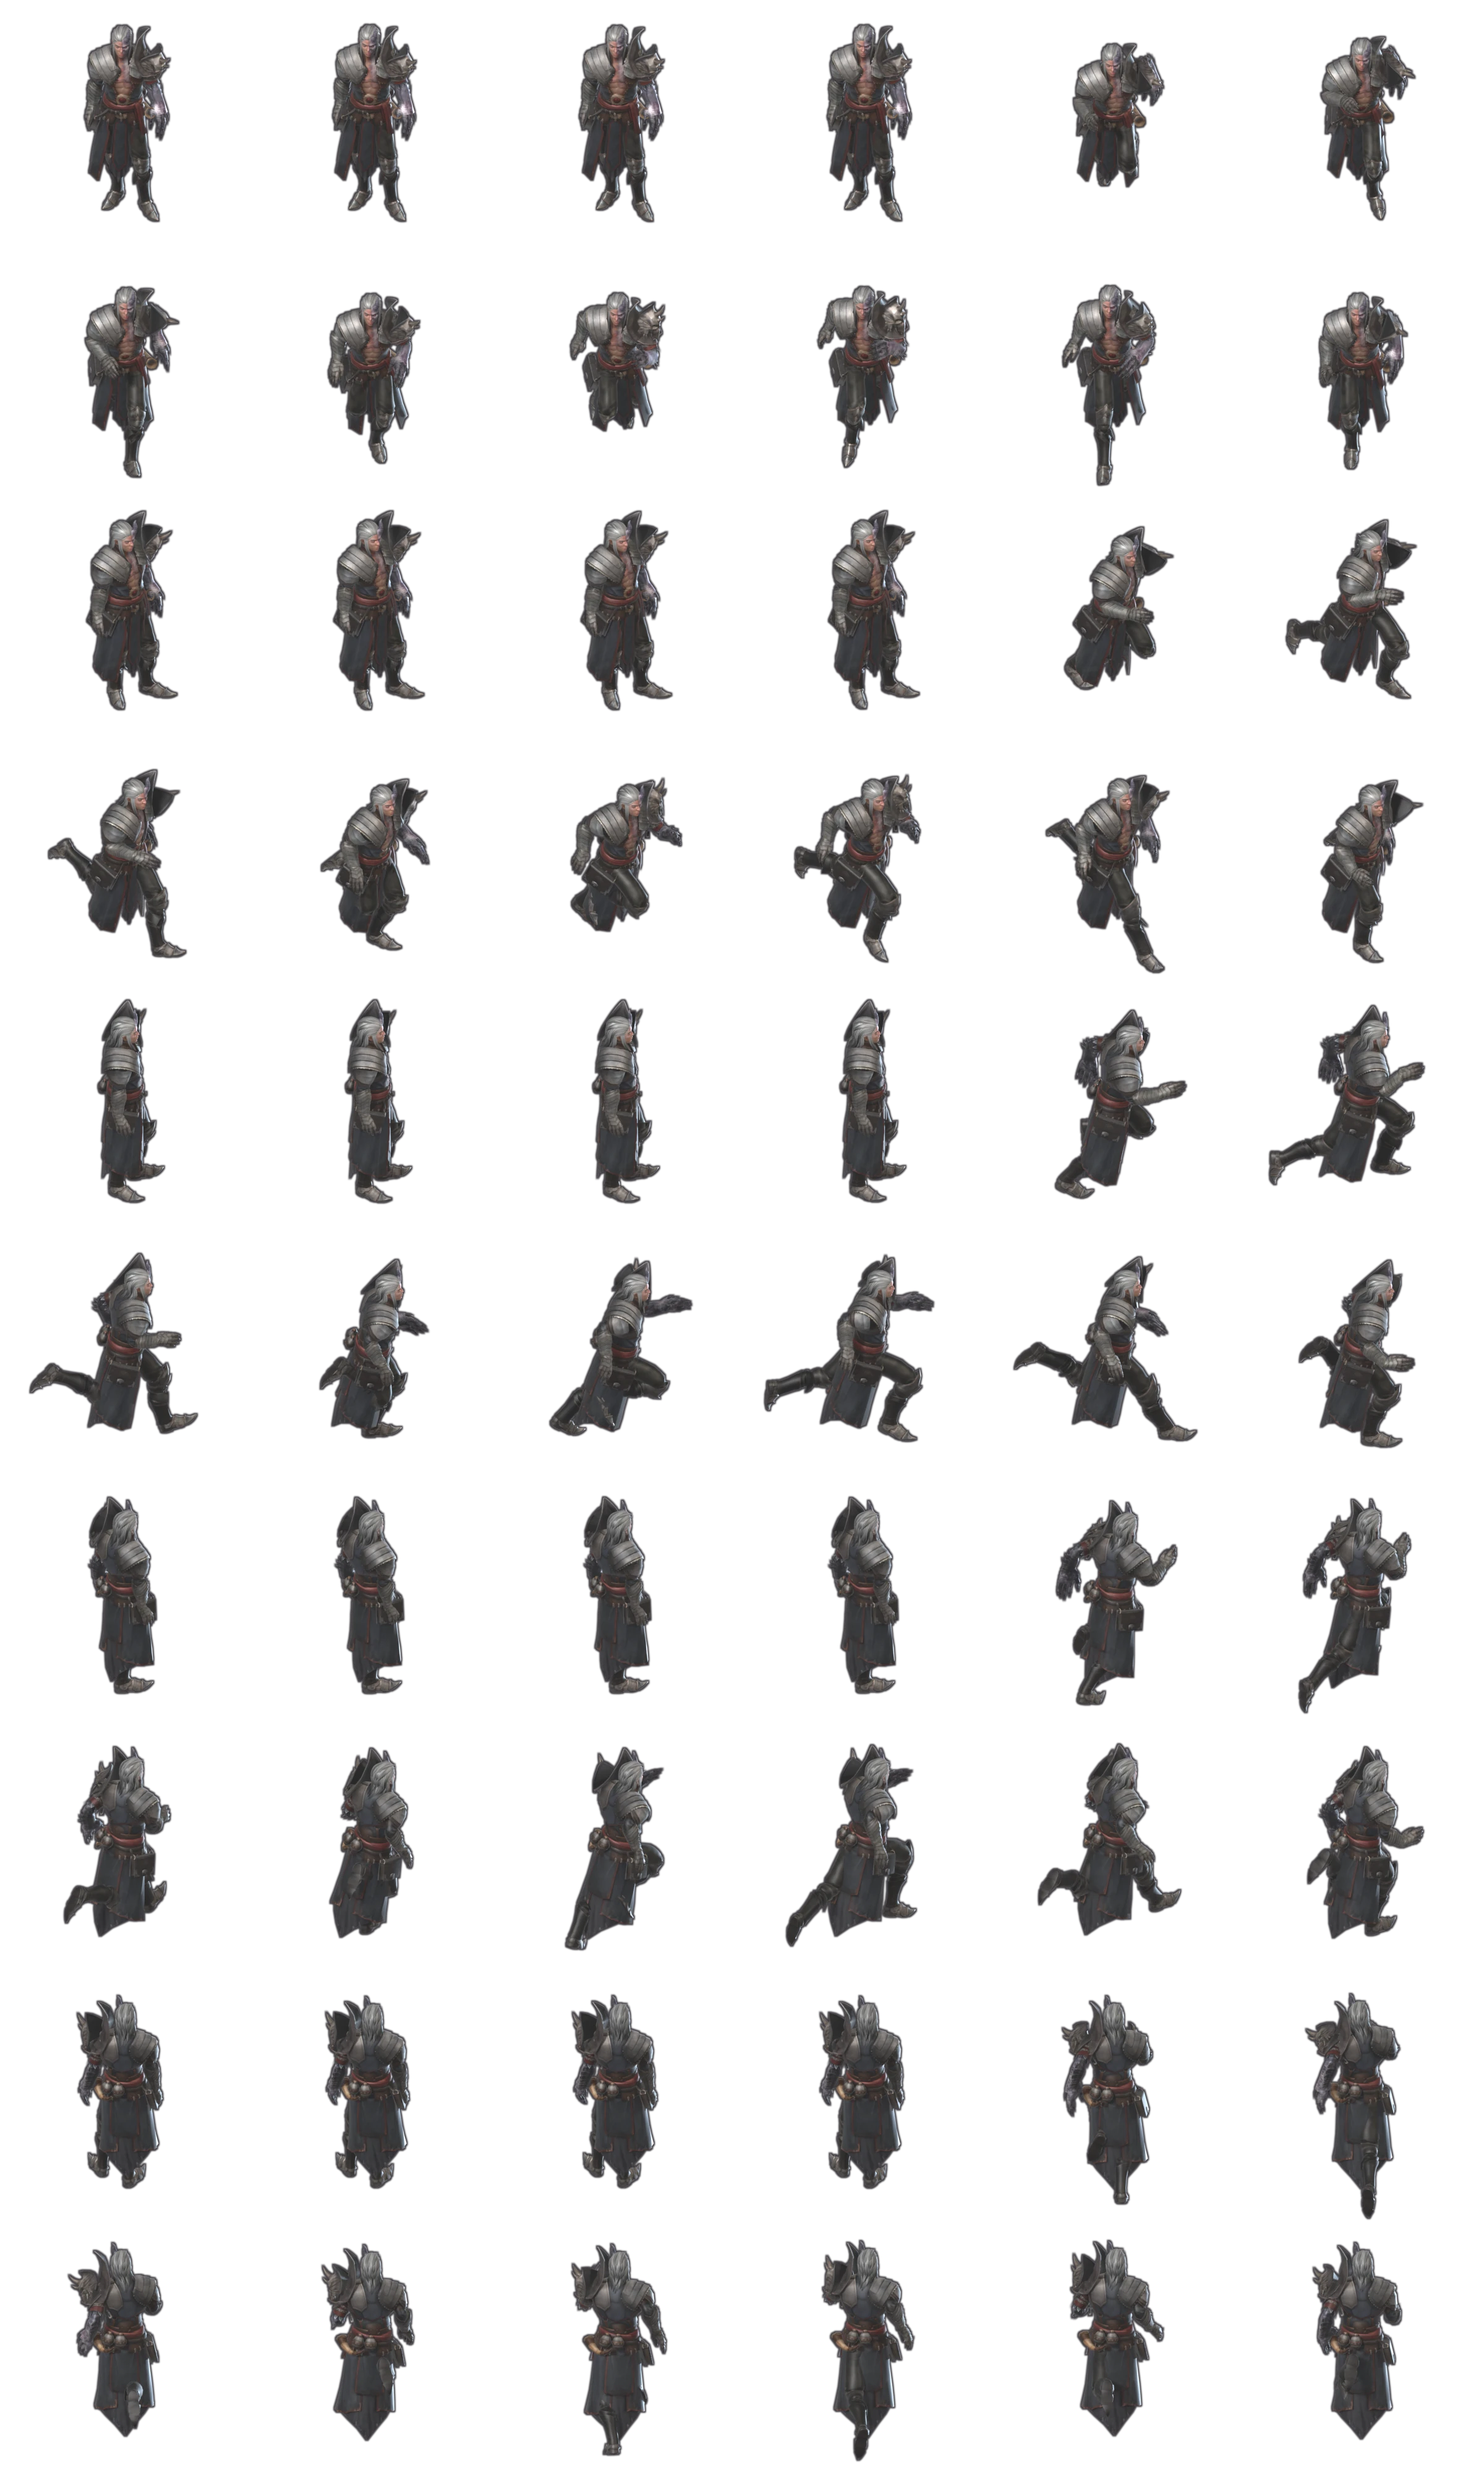
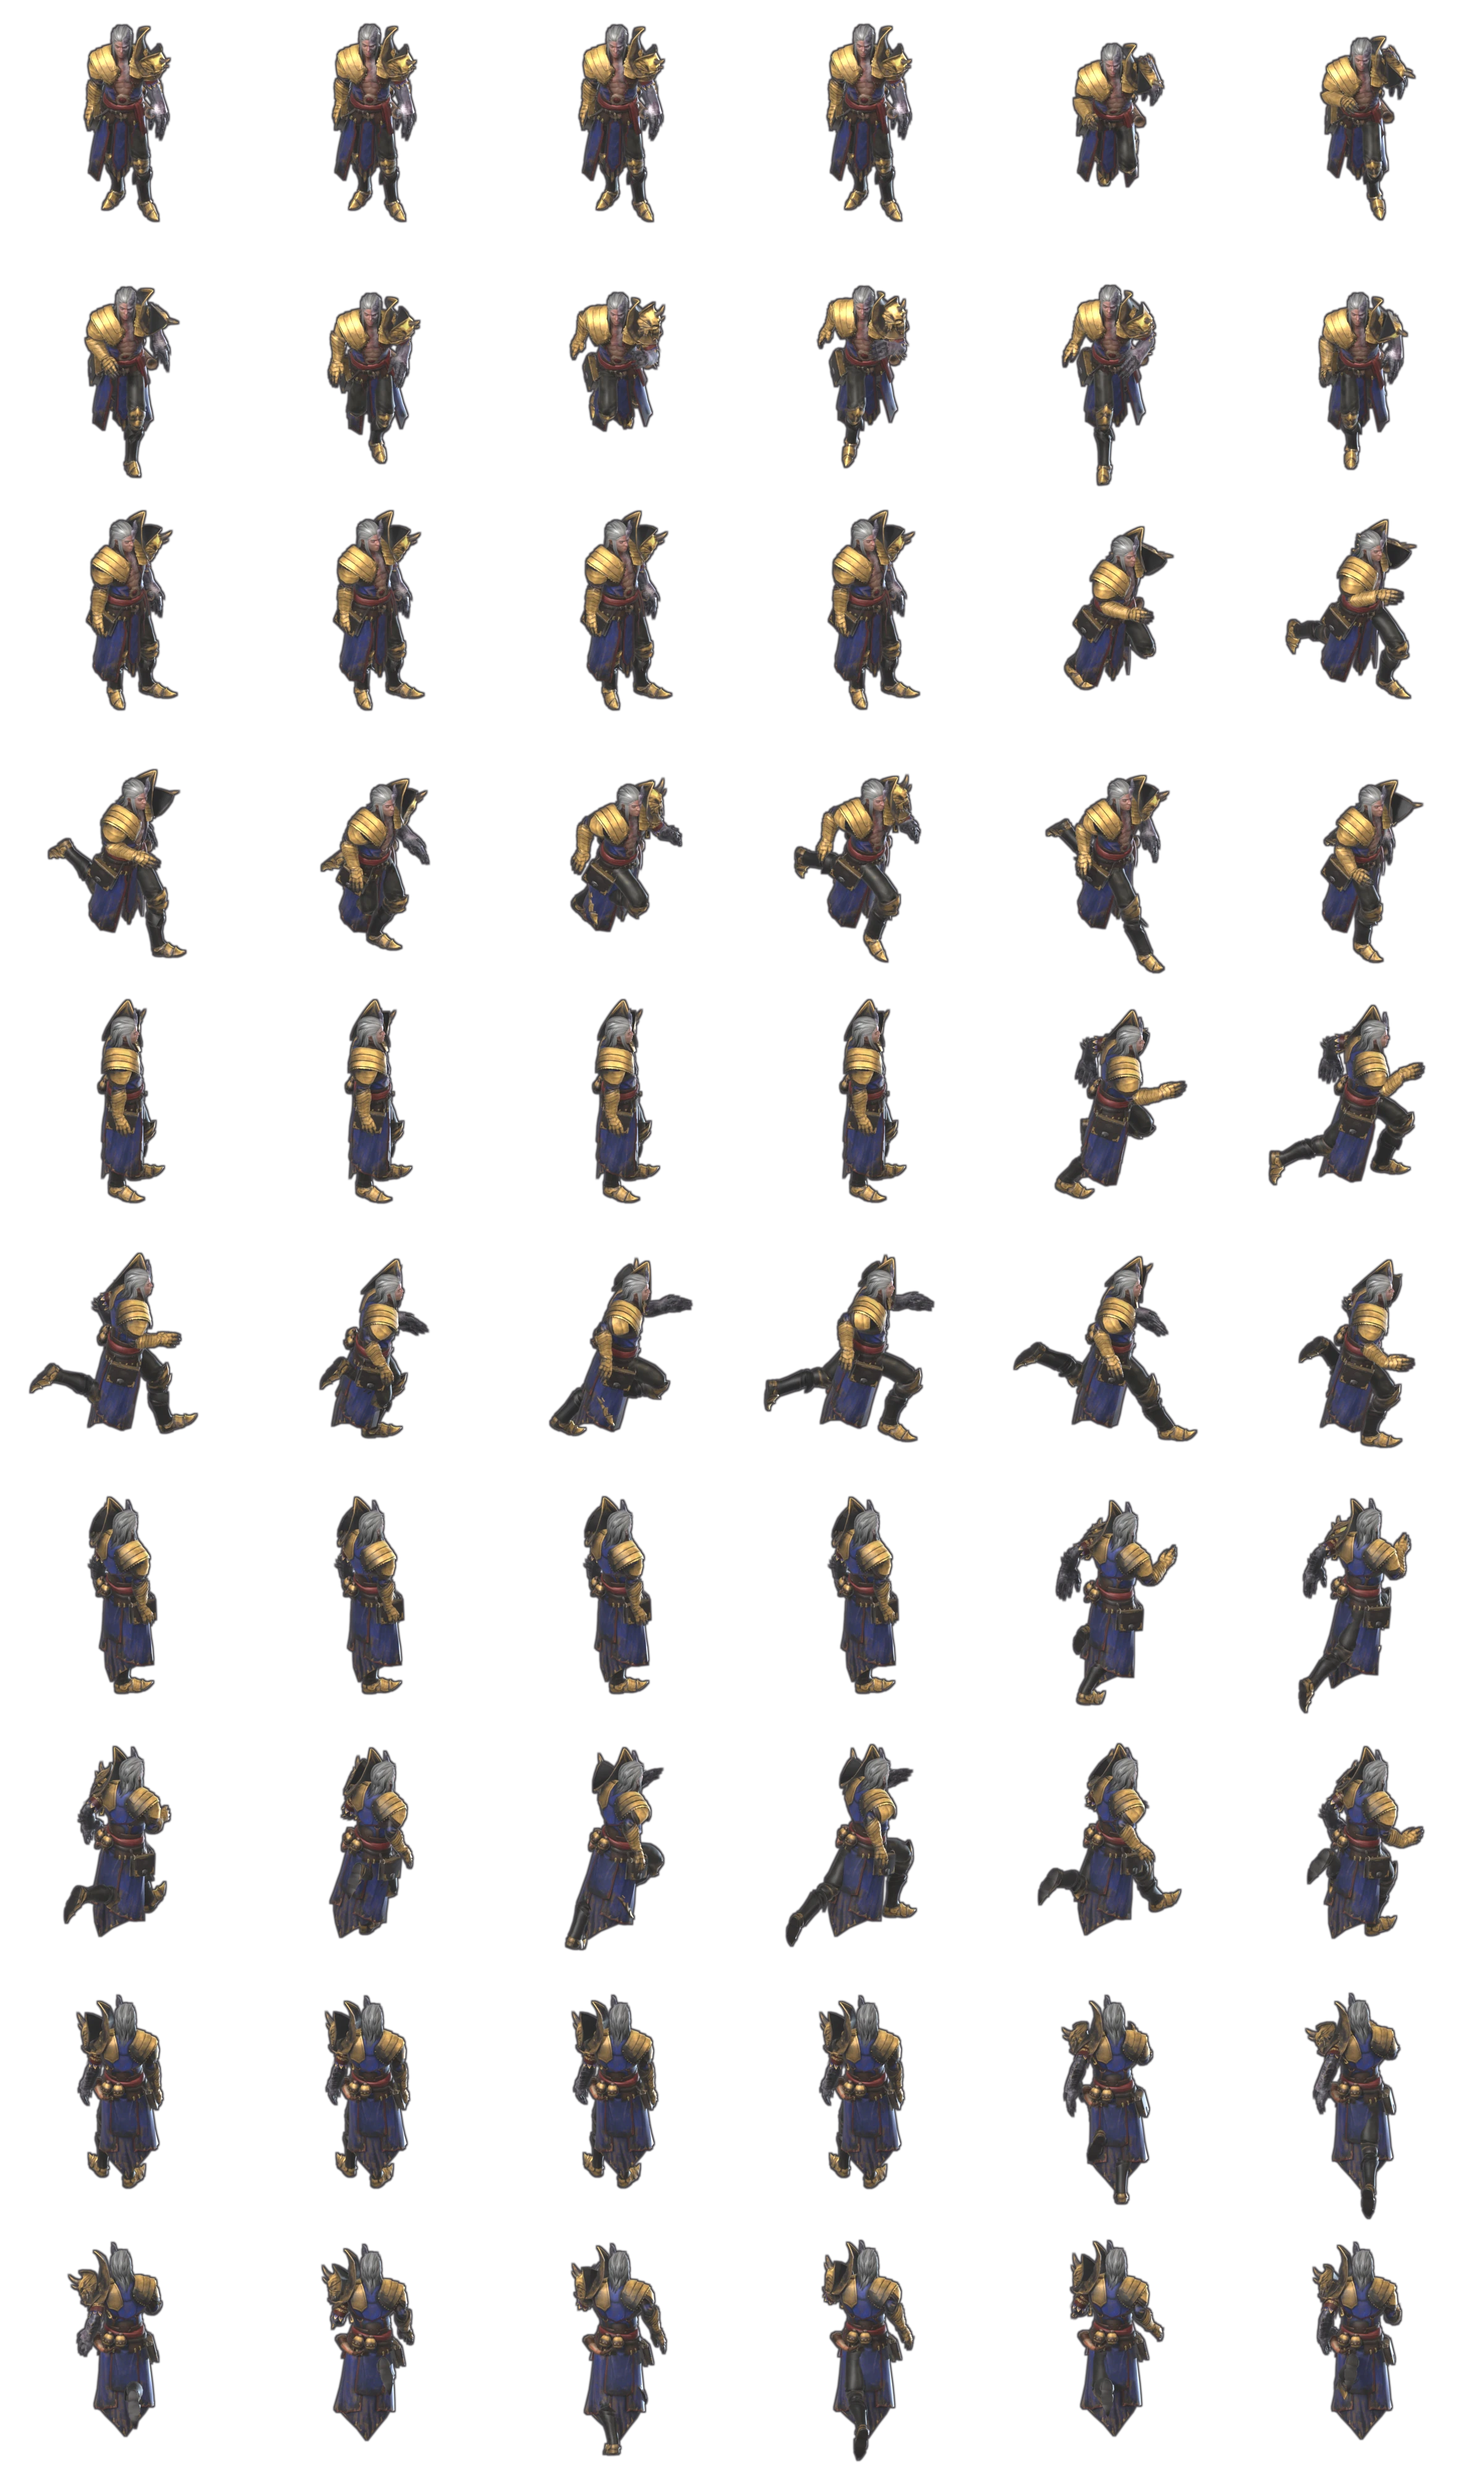
v24: hero recolor - gold armor, royal blue cloth

diff --git a/index.html b/index.html
@@ -21,9 +21,9 @@
 <canvas id="c"></canvas>
 <div id="hud"><b>Duel Arena</b> · <span id="tip">стик — движение, кнопки справа — огонь и скилы (ПК: WASD, пробел, Q E F R, фласки 1–4, Enter — волна, B — магазин)</span><br>
 <span id="snd">🔇 коснитесь экрана, чтобы включить звук</span> <span id="pad">🎮 геймпад подключён</span></div>
-<script src="data.js?v=23"></script>
+<script src="data.js?v=24"></script>
 <script>
-const V = '?v=23';
+const V = '?v=24';
 const cv = document.getElementById('c');
 const ctx = cv.getContext('2d');
 let DPR = 1, W = 0, H = 0;
@@ -401,7 +401,7 @@ if (location.host !== 'duelarena.app') {
 // на сенсорном экране подсказка короче, чтобы не наезжать на счётчик волн
 if ('ontouchstart' in window) document.getElementById('tip').textContent = 'стик — движение, кнопки справа — огонь и скиллы';
 </script>
-<script src="combat.js?v=23"></script>
-<script src="shop.js?v=23"></script>
+<script src="combat.js?v=24"></script>
+<script src="shop.js?v=24"></script>
 </body>
 </html>

diff --git a/editor/index.html b/editor/index.html
@@ -89,10 +89,10 @@
   </div>
 </div>
 
-<script src="../data.js?v=23"></script>
+<script src="../data.js?v=24"></script>
 <script>
 'use strict';
-const V = '?v=23';
+const V = '?v=24';
 let cfg = loadCfg();
 // рабочая копия карты: объекты в координатах мира
 let objs = (cfg.map || DEFAULT_OBJ).map(o => JSON.parse(JSON.stringify(o)));
